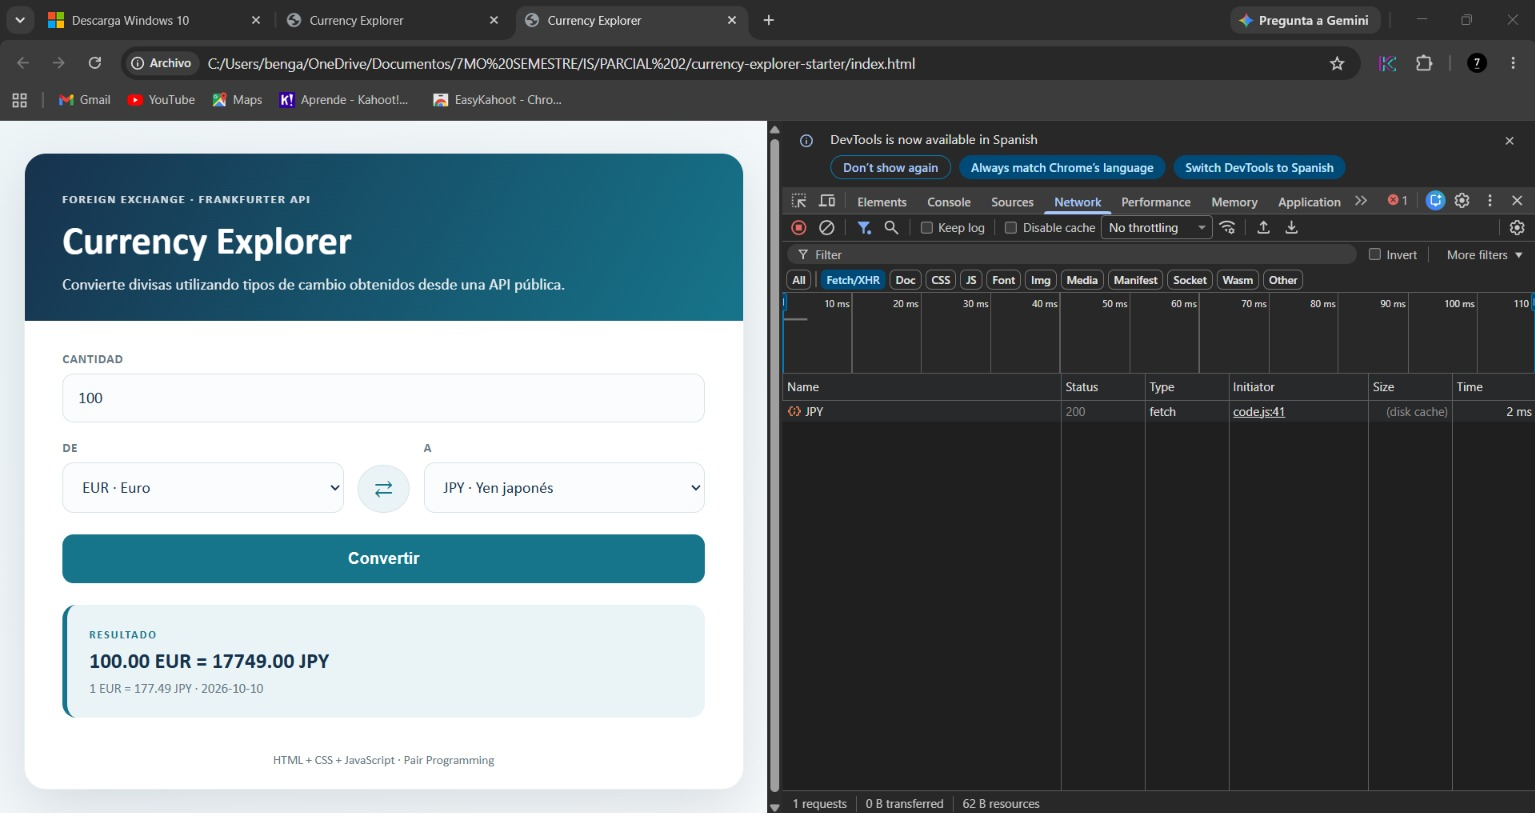
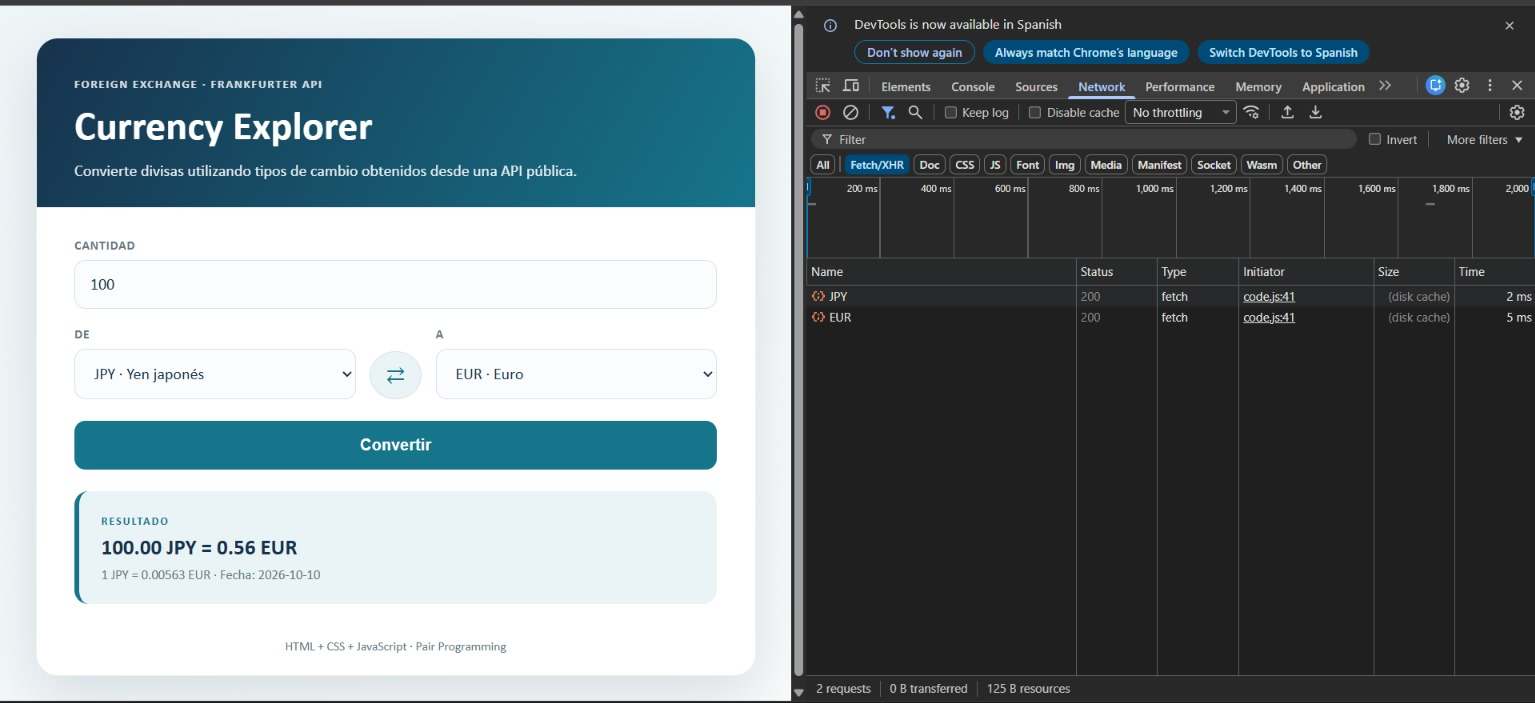
Evidencias 05 y 06: capturas con el código actualizado — Driver: Benjamin / Navigator: Leonardo

diff --git a/README.md b/README.md
@@ -10,8 +10,8 @@
 | 00 | Benjamin | Leonardo | Starter Project inicial |
 | 01–03 | Leonardo | Benjamin | Flujo guiado EUR/USD verificado · evidencias/console-eur-usd.png |
 | 04 | Benjamin | Leonardo | Origen y destino desde los `<select>` · `evidencias/app-eur-jpy.png`, `network-headers-eur-jpy.png`, `network-response-eur-jpy.png` |
-| 05 | Leonardo | Benjamin | `mostrarResultado()` y `formatearNumero()` · resultado con separador de miles · `evidencias/m05-formato-miles.png` |
-| 06 | Benjamin | Leonardo | `intercambiarMonedas()` con variable temporal · recalcula al intercambiar · `evidencias/m06-intercambio.png` |
+| 05 | Leonardo | Benjamin | `mostrarResultado()` y `formatearNumero()` · resultado con separador de miles · `evidencias/m05-formato-miles.jpeg` |
+| 06 | Benjamin | Leonardo | `intercambiarMonedas()` con variable temporal · recalcula al intercambiar · `evidencias/m06-intercambio.jpeg` |
 | 07 | | | |
 | 08 | | | |
 | 09 | | | |
